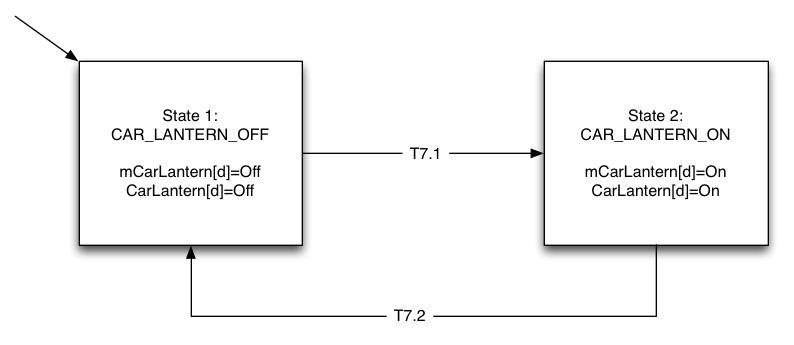
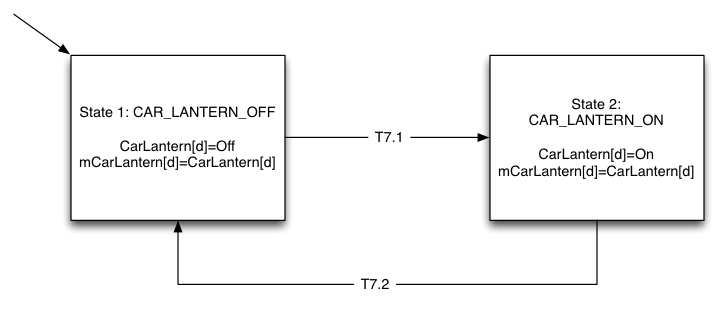
Updated requirements2(lanternControl), SD7A, SC_LanternControl

diff --git a/portfolio/reqs/requirements2.html b/portfolio/reqs/requirements2.html
@@ -992,77 +992,61 @@
     <ul>
       <li>Dwell, long integer with number of msec desired for door dwell
         during current cycle. </li>
-      <li>EmergencyDwell, a macro which calculates a shorter door dwell 
+      <li>EmergencyDwell, a macro which calculates a shorter door dwell
         time based on the current value of Dwell.</li>
       <li>CountDown: a count-down timer for Door Dwell[b] (implemented
         in simulation by scheduling a future task execution at time of
         expiration) </li>
     </ul>
     <h3> CONSTRAINTS: </h3>
-
     5.1&nbsp;&nbsp;&nbsp; DoorClosed[b, *] shall be True when there is
     no mAtFloor[f, b] that is True.<br>
-
     5.2&nbsp;&nbsp;&nbsp; Any DoorReversal[b,*] shall not be True for
     more than an accumulated time of 50 msec without causing all
     DoorControllers[b,*] to perform an Open or Nudge command.<br>
-
     5.3&nbsp;&nbsp;&nbsp; Doors should keep moving in desired direction
     unless commanded otherwise, subject to the constraints of the door
     object.<br>
-
     5.4&nbsp;&nbsp;&nbsp; All doors of the same hallway should be
     commanded to identical positions at all times.<br>
-
     5.5&nbsp;&nbsp;&nbsp; If CarWeight(x) &gt;= MaxCarCapacity, the
     doors shall open completely until the car is no longer overloaded.<br>
-5.6&nbsp;&nbsp;&nbsp; No DoorController[b,*] shall be commanded to Nudge without at least one door reversal having occured during the stop at the current floor.<br>
-
+    5.6&nbsp;&nbsp;&nbsp; No DoorController[b,*] shall be commanded to
+    Nudge without at least one door reversal having occured during the
+    stop at the current floor.<br>
     <h3> TIME-TRIGGERED BEHAVIORS: </h3>
-
     5.7 &nbsp;&nbsp; Door shall not be commanded to open unless
-    Elevator.hasLanding(f, b) is true and mDriveSpeed.s is equal to Stop.<br>
-
+    Elevator.hasLanding(f, b) is true and mDriveSpeed.s is equal to
+    Stop.<br>
     5.8 &nbsp;&nbsp; If any mAtFloor[f, b] is True and f equals
     mDesiredFloor.f and either b equals mDesiredFloor.h or
     mDesiredFloor.h is Both, then DoorMotor[b, r] shall be commanded to
     Open. <br>
-
     5.9 &nbsp;&nbsp; If mCarWeight(g) &gt;= MaxCarCapacity, and
     mDoorOpened[b, r] is False, DoorMotor[b, r] shall be commanded to
     Open.<br>
-
     5.10 &nbsp;&nbsp; If mDoorReversal=true, and mDoorOpened[b,r] is
     False, DoorMotor[b,r] shall be commanded to Open.<br>
-
     5.11 &nbsp;&nbsp; When DoorMotor[b,r] is commanded to Open<br>
-    &nbsp;&nbsp;&nbsp; 5.11.1 &nbsp;&nbsp; If mDoorReversal is false, then 
-    countdown shall be set to Dwell.<br>
-    &nbsp;&nbsp;&nbsp; 5.11.2 &nbsp;&nbsp; If mDoorReversal is true, then 
-    countdown shall be set to EmergencyDwell.<br>
-
-
-    5.12 &nbsp;&nbsp; Dwell shall be set to an appropriate value based on
-    mDesiredDwell[b].<br>
-
-    5.13 &nbsp;&nbsp; If mDoorOpened[b, r] is True, then DoorMotor[b,r] shall
-    be commanded to Stop.<br>
-
-    5.14 &nbsp;&nbsp; If mDoorOpened[b, r] is True then CountDown shall be 
-    decremented.<br>
-
+    &nbsp;&nbsp;&nbsp; 5.11.1 &nbsp;&nbsp; If mDoorReversal is false,
+    then countdown shall be set to Dwell.<br>
+    &nbsp;&nbsp;&nbsp; 5.11.2 &nbsp;&nbsp; If mDoorReversal is true,
+    then countdown shall be set to EmergencyDwell.<br>
+    5.12 &nbsp;&nbsp; Dwell shall be set to an appropriate value based
+    on mDesiredDwell[b].<br>
+    5.13 &nbsp;&nbsp; If mDoorOpened[b, r] is True, then DoorMotor[b,r]
+    shall be commanded to Stop.<br>
+    5.14 &nbsp;&nbsp; If mDoorOpened[b, r] is True then CountDown shall
+    be decremented.<br>
     5.15 &nbsp;&nbsp; If CountDown &lt;= 0<br>
-    &nbsp;&nbsp;&nbsp; 5.15.1 &nbsp;&nbsp; If a door reversal did not 
+    &nbsp;&nbsp;&nbsp; 5.15.1 &nbsp;&nbsp; If a door reversal did not
     previously occur, then DoorMotor[b,r] shall be commanded to Close.<br>
-    &nbsp;&nbsp;&nbsp; 5.15.2 &nbsp;&nbsp; If a door reversal previously 
+    &nbsp;&nbsp;&nbsp; 5.15.2 &nbsp;&nbsp; If a door reversal previously
     occured, then DoorMotor[b,r] shall be commanded to Nudge.<br>
-
-    5.16 &nbsp;&nbsp; If mDoorClosed[b, r] is True, then DoorMotor[b,r] should
-    be commanded to Stop.<br>
-
-    5.17 &nbsp;&nbsp; mDoorMotor[b,r] shall be set to the current value of
-    DoorMotor[b,r].<br>
-
+    5.16 &nbsp;&nbsp; If mDoorClosed[b, r] is True, then DoorMotor[b,r]
+    should be commanded to Stop.<br>
+    5.17 &nbsp;&nbsp; mDoorMotor[b,r] shall be set to the current value
+    of DoorMotor[b,r].<br>
     <h3>STATECHART: </h3>
     <img alt="SC_DoorControl" src="SC_DoorControl.png"><br>
     <br>
@@ -1105,8 +1089,9 @@
         <tr>
           <td style="vertical-align: top; ">T5.4<br>
           </td>
-          <td style="vertical-align: top; ">CountDown&lt;=0
-            &amp;&amp; mCarWeight(g) &lt; MaxCarCapacity &amp;&amp; mDoorReversal==False<br>
+          <td style="vertical-align: top; ">CountDown&lt;=0 &amp;&amp;
+            mCarWeight(g) &lt; MaxCarCapacity &amp;&amp;
+            mDoorReversal==False<br>
           </td>
         </tr>
         <tr>
@@ -1123,18 +1108,16 @@
           <td style="vertical-align: top; ">T5.6<br>
           </td>
           <td style="vertical-align: top; ">Elevator.hasLanding(f, b)
-            &amp;&amp; mDriveSpeed.s == Stop &amp;&amp; 
-            mDoorReversal==True &amp;&amp;
-            mDoorOpened[b,r]==False<br>
+            &amp;&amp; mDriveSpeed.s == Stop &amp;&amp;
+            mDoorReversal==True &amp;&amp; mDoorOpened[b,r]==False<br>
           </td>
         </tr>
         <tr>
           <td style="vertical-align: top; ">T5.7<br>
           </td>
           <td style="vertical-align: top; ">Elevator.hasLanding(f, b)
-            &amp;&amp; mDriveSpeed.s == Stop &amp;&amp; 
-            mDoorReversal==True &amp;&amp;
-            mDoorOpened[b,r]==False<br>
+            &amp;&amp; mDriveSpeed.s == Stop &amp;&amp;
+            mDoorReversal==True &amp;&amp; mDoorOpened[b,r]==False<br>
           </td>
         </tr>
         <tr>
@@ -1195,21 +1178,21 @@
           <td style="vertical-align: top; background-color: rgb(204,
             204, 204);">BR5.8<br>
           </td>
-          <td valign="top" bgcolor="#cccccc">BR5.9<br>
+          <td bgcolor="#cccccc" valign="top">BR5.9<br>
           </td>
-          <td valign="top" bgcolor="#cccccc">BR5.10</td>
-          <td valign="top" bgcolor="#cccccc">BR5.11.1</td>
-          <td valign="top" bgcolor="#cccccc">BR5.11.2<br>
+          <td bgcolor="#cccccc" valign="top">BR5.10</td>
+          <td bgcolor="#cccccc" valign="top">BR5.11.1</td>
+          <td bgcolor="#cccccc" valign="top">BR5.11.2<br>
           </td>
-          <td valign="top" bgcolor="#cccccc">BR5.12</td>
-          <td valign="top" bgcolor="#cccccc">BR5.13<br>
+          <td bgcolor="#cccccc" valign="top">BR5.12</td>
+          <td bgcolor="#cccccc" valign="top">BR5.13<br>
           </td>
-          <td valign="top" bgcolor="#cccccc">BR5.14<br>
+          <td bgcolor="#cccccc" valign="top">BR5.14<br>
           </td>
-          <td valign="top" bgcolor="#cccccc">BR5.15.1</td>
-          <td valign="top" bgcolor="#cccccc">BR5.15.2</td>
-          <td valign="top" bgcolor="#cccccc">BR5.16</td>
-          <td valign="top" bgcolor="#cccccc">BR5.17</td>
+          <td bgcolor="#cccccc" valign="top">BR5.15.1</td>
+          <td bgcolor="#cccccc" valign="top">BR5.15.2</td>
+          <td bgcolor="#cccccc" valign="top">BR5.16</td>
+          <td bgcolor="#cccccc" valign="top">BR5.17</td>
         </tr>
         <tr>
           <td style="vertical-align: top; background-color: rgb(204,
@@ -1285,8 +1268,7 @@
         </tr>
         <tr>
           <td style="vertical-align: top; background-color: rgb(204,
-            204, 204);">State DOOR_REVERSING
-          </td>
+            204, 204);">State DOOR_REVERSING </td>
           <td align="center" valign="middle">X<br>
           </td>
           <td align="center" valign="middle"><br>
@@ -1298,7 +1280,8 @@
           <td align="center" valign="middle">&nbsp;</td>
           <td align="center" valign="middle">X<br>
           </td>
-          <td align="center" valign="middle">X<br></td>
+          <td align="center" valign="middle">X<br>
+          </td>
           <td align="center" valign="middle"><br>
           </td>
           <td align="center" valign="middle"><br>
@@ -1313,35 +1296,53 @@
         <tr>
           <td style="vertical-align: top; background-color: rgb(204,
             204, 204);">State DOOR_REVERSED </td>
-          <td align="center" valign="middle"><br></td>
-          <td align="center" valign="middle"><br></td>
-          <td align="center" valign="middle"><br></td>
-          <td align="center" valign="middle"><br></td>
+          <td align="center" valign="middle"><br>
+          </td>
+          <td align="center" valign="middle"><br>
+          </td>
+          <td align="center" valign="middle"><br>
+          </td>
+          <td align="center" valign="middle"><br>
+          </td>
           <td align="center" valign="middle">&nbsp;</td>
-          <td align="center" valign="middle"><br></td>
-          <td align="center" valign="middle">X<br></td>
-          <td align="center" valign="middle">X<br></td>
+          <td align="center" valign="middle"><br>
+          </td>
+          <td align="center" valign="middle">X<br>
+          </td>
+          <td align="center" valign="middle">X<br>
+          </td>
           <td align="center" valign="middle">X</td>
-          <td align="center" valign="middle"><br></td>
+          <td align="center" valign="middle"><br>
+          </td>
           <td align="center" valign="middle">&nbsp;</td>
-          <td align="center" valign="middle"><br></td>
+          <td align="center" valign="middle"><br>
+          </td>
           <td align="center" valign="middle">X</td>
         </tr>
         <tr>
           <td style="vertical-align: top; background-color: rgb(204,
             204, 204);">State DOOR_NUDGING </td>
-          <td align="center" valign="middle"><br></td>
-          <td align="center" valign="middle"><br></td>
-          <td align="center" valign="middle"><br></td>
-          <td align="center" valign="middle"><br></td>
+          <td align="center" valign="middle"><br>
+          </td>
+          <td align="center" valign="middle"><br>
+          </td>
+          <td align="center" valign="middle"><br>
+          </td>
+          <td align="center" valign="middle"><br>
+          </td>
           <td align="center" valign="middle">&nbsp;</td>
-          <td align="center" valign="middle"><br></td>
+          <td align="center" valign="middle"><br>
+          </td>
           <td align="center" valign="middle">X</td>
-          <td align="center" valign="middle"><br></td>
-          <td align="center" valign="middle"><br></td>
-          <td align="center" valign="middle"><br></td>
+          <td align="center" valign="middle"><br>
+          </td>
+          <td align="center" valign="middle"><br>
+          </td>
+          <td align="center" valign="middle"><br>
+          </td>
           <td align="center" valign="middle">X</td>
-          <td align="center" valign="middle"><br></td>
+          <td align="center" valign="middle"><br>
+          </td>
           <td align="center" valign="middle">X</td>
         </tr>
         <tr>
@@ -1820,18 +1821,19 @@
     is no longer overloaded.
     <h3>TIME-TRIGGERED BEHAVIORS:</h3>
     <p><br>
-      6.6 &nbsp;&nbsp; DesiredDirection shall be updated every Drive period using the
-      values of mDesiredFloor.f and CurrentFloor.<br>
+      6.6 &nbsp;&nbsp; DesiredDirection shall be updated every Drive
+      period using the values of mDesiredFloor.f and CurrentFloor.<br>
       6.7&nbsp;&nbsp;&nbsp; If DriveSpeed is (0, STOP):<br>
-      &nbsp; 6.7.1 &nbsp;&nbsp; If mLevel[Up] is False and mLevel[Down] is True, Drive[s,d] shall be
-      commanded to (Level, Up).<br>
-      &nbsp; 6.7.2 &nbsp;&nbsp; If  mLevel[Up] is True and mLevel[Down] is False, Drive[s,d] shall be
-      commanded to (Level, Down).<br>
+      &nbsp; 6.7.1 &nbsp;&nbsp; If mLevel[Up] is False and mLevel[Down]
+      is True, Drive[s,d] shall be commanded to (Level, Up).<br>
+      &nbsp; 6.7.2 &nbsp;&nbsp; If mLevel[Up] is True and mLevel[Down]
+      is False, Drive[s,d] shall be commanded to (Level, Down).<br>
       &nbsp; 6.7.3 &nbsp;&nbsp; If DesiredDirection is not Stop and all
       mDoorClosed[*, *] is true, Drive[s,d] shall be commanded to (Slow,
       DesiredDirection).<br>
       6.8&nbsp;&nbsp;&nbsp; If DriveSpeed is (LevelSpeed, <b>d</b>):<br>
-      &nbsp; 6.8.1&nbsp;&nbsp;&nbsp; If all mLevel[*] is True, then Drive[s, d] shall be commanded to (Stop, Stop).<br>
+      &nbsp; 6.8.1&nbsp;&nbsp;&nbsp; If all mLevel[*] is True, then
+      Drive[s, d] shall be commanded to (Stop, Stop).<br>
       6.9 &nbsp; If DriveSpeed is (SlowSpeed, <b>d</b>):<br>
       &nbsp; 6.9.1&nbsp;&nbsp;&nbsp; If DesiredDirection is Stop and
       mLevel[<b>d</b>] is False and mLevel[~<b>d</b>] is True,
@@ -2363,9 +2365,9 @@
     <p>7.2 &nbsp;&nbsp; If mAtFloor[f,b]=true and mDesiredFloor.f=f and
       mDesiredFloor.d=d, CarLantern[d] shall be set to On.<br>
       7.3&nbsp;&nbsp;&nbsp; If all mDoorClosed[b,r]=true, CarLantern[d]
-      and mCarLantern[d] shall be set to Off.<br>
-      7.4&nbsp;&nbsp;&nbsp; If mDesiredFloor.d != d, CarLantern[d] and
-      mCarLantern[d] shall be set to Off.<br>
+      shall be set to Off.<br>
+      7.4&nbsp;&nbsp;&nbsp; If mDesiredFloor.d != d, CarLantern[d] shall
+      be set to Off.<br>
       7.5&nbsp;&nbsp;&nbsp; mCarLantern[d] shall be set to
       CarLantern[d].<br>
     </p>
